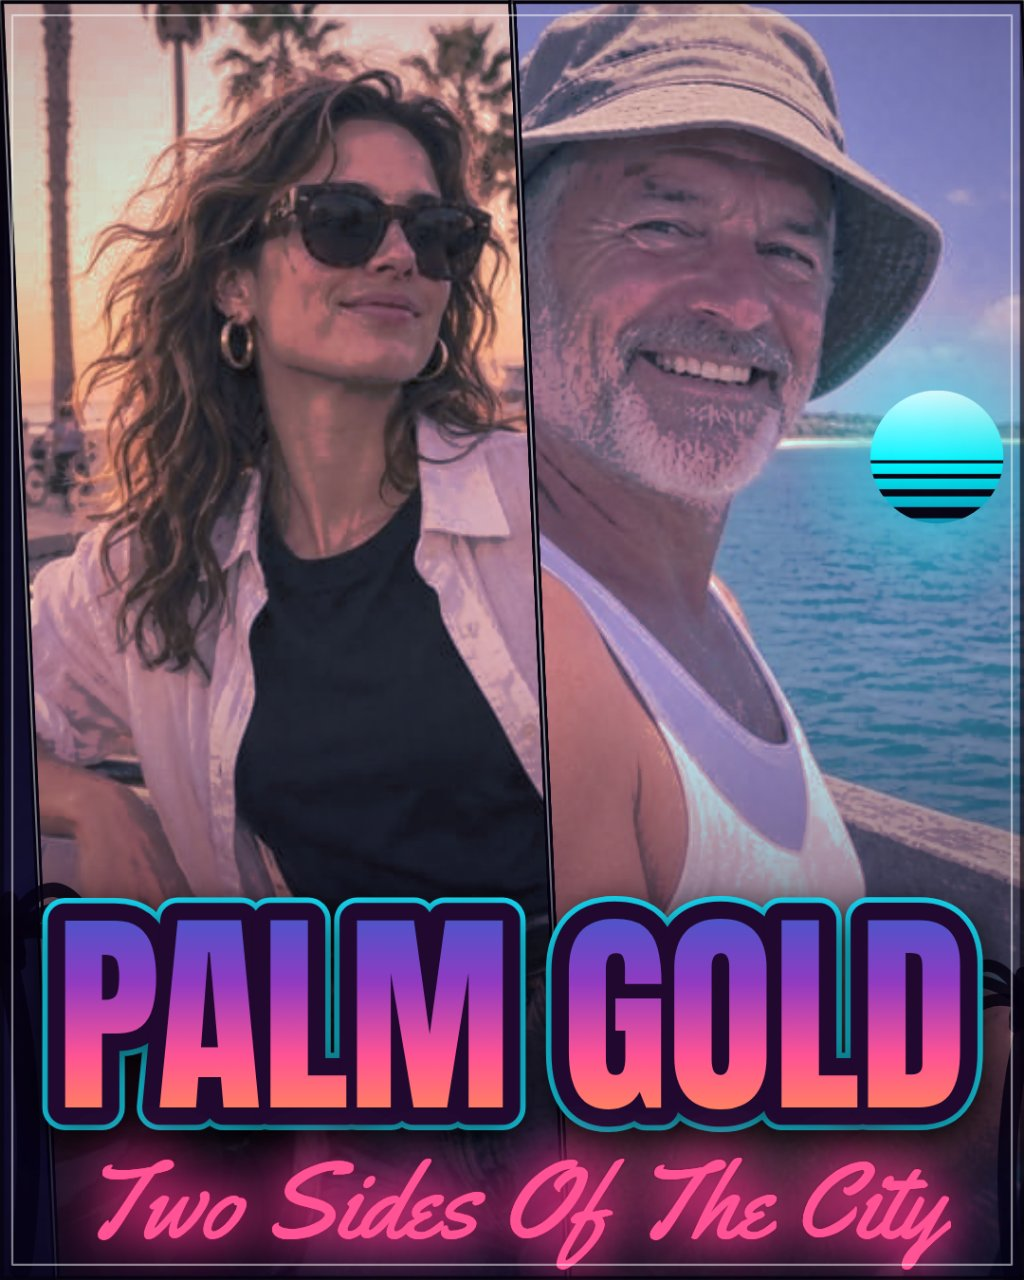
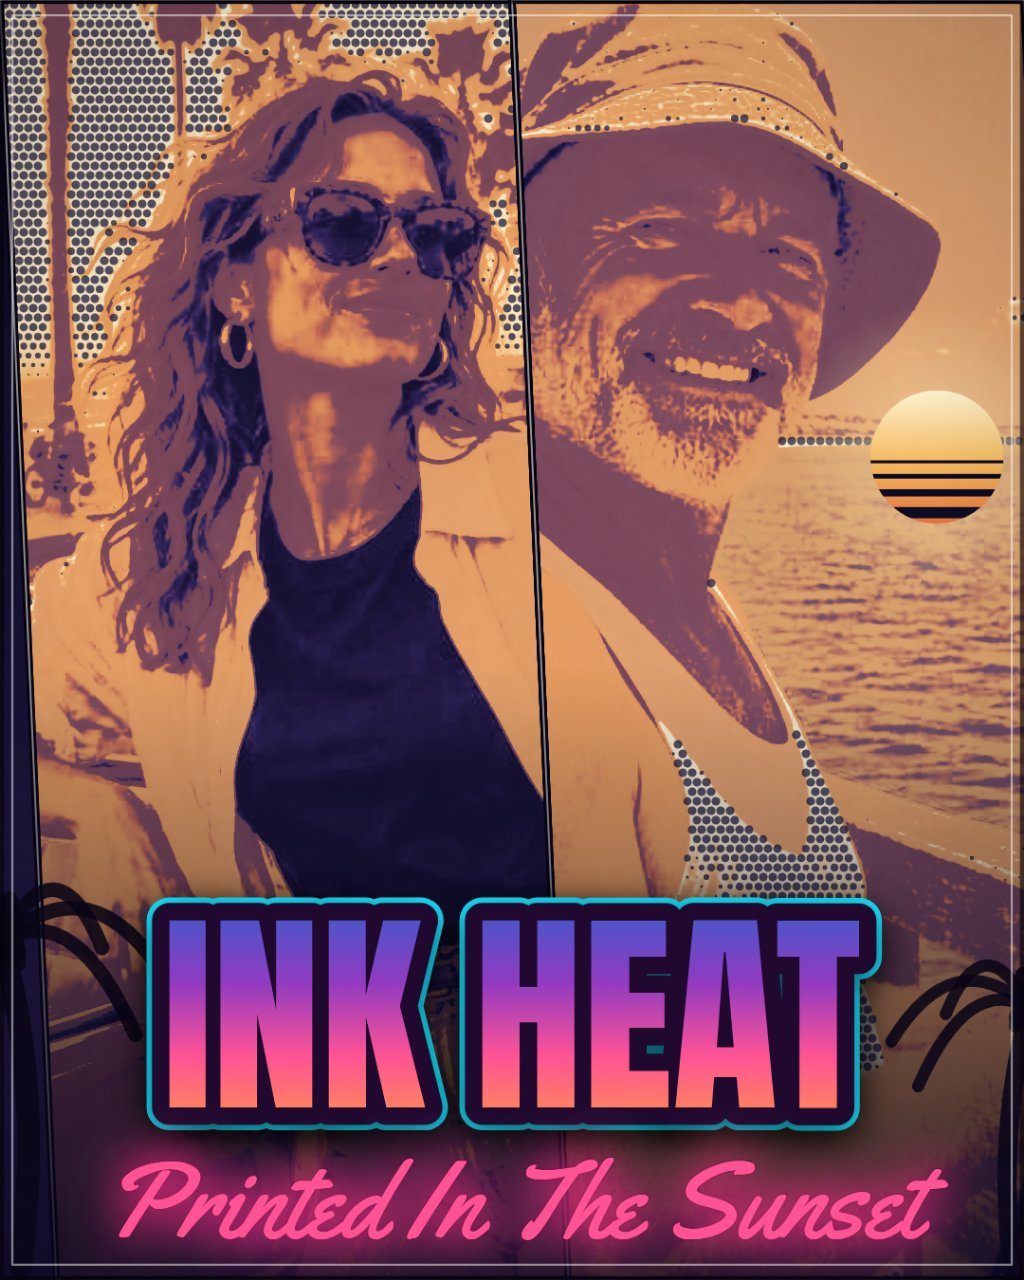
Close the gaps round: Poster Ink grade (duotone ink LUT, 4-step posterize, highlight-masked halftone) + Mosaic 9-panel layout
- GRADES.ink: indigo-ink -> terracotta -> amber -> paper-cream ramp, mix 0.88,
  steps 4; halftone dots (deep ink, brick-offset grid, pitch 6-15px) masked by
  smoothstep(0.67, 0.96) on posterized luminance - texture lives in sky and
  highlights, faces stay clean. Per-grade posterize steps in gradeLUT.
  Sun in ink follows the LUT stops (cream -> amber -> rust, indigo slits).
- LAYOUTS.mosaic: 3x3 nine-panel grid, all aspects; rotating panelPhoto
  assignment with mosaic-specific gentler re-crops so faces stay in cell;
  no sun in Mosaic (no sea cell can be guaranteed face-free).
- Editor: Mosaic + Poster Ink buttons, ink swatch style.
- Screenshots: 2-editor now shows Mosaic + Poster Ink together (JPEG q78 via
  shots.json), 4-cover becomes the Duo Poster Ink showcase (INK HEAT).
- README + main.ts header updated to five layouts and five grades.

diff --git a/app/src/poster.js b/app/src/poster.js
@@ -1,10 +1,12 @@
 // VICE COVER poster renderer: draws a multi-panel GTA-style poster onto any
 // 2D canvas. Pure drawing code — no network, no DOM input, no Rockstar assets.
 // A poster is: photo panels graded through a per-grade gradient-map LUT with
-// light tonal posterizing (cel feel), firm gutters, a slit sun sitting on the
-// sea panel's horizon, code-drawn palms, a print finishing pass (grain +
-// vignette), then layered lettering: a sunset-gradient title with a double
-// outline and a neon script tagline.
+// tonal posterizing (cel feel; the Poster Ink grade goes further — a firm
+// screen-print posterize plus a luminance-masked halftone that lives in the
+// highlights only), firm gutters, a slit sun sitting on the sea panel's
+// horizon, code-drawn palms, a print finishing pass (grain + vignette), then
+// layered lettering: a sunset-gradient title with a double outline and a
+// neon script tagline.
 
 export const SIZES = {
   '1080x1080': [1080, 1080],
@@ -17,6 +19,7 @@ export const LAYOUTS = {
   duo: { panels: 2, slant: 0.055, label: 'Split Duo' },
   solo: { panels: 1, slant: 0, label: 'Solo Hero' },
   grid: { panels: 5, slant: 0, label: 'Cover Grid' },
+  mosaic: { panels: 9, slant: 0, label: 'Mosaic' },
 };
 
 // Each grade carries a gradient-map ramp (shadow -> midtone -> highlight)
@@ -76,12 +79,33 @@ export const GRADES = {
     tagText: '#0a0a0a',
     scrim: '0, 0, 0',
   },
+  ink: {
+    // Poster Ink: a screen-print finish. A bold duotone ink ramp (deep
+    // indigo ink shadows -> warm terracotta midtones -> paper-cream
+    // highlights), a firmer posterize than the other grades, and a halftone
+    // dot screen masked to the highlights (see applyHalftone).
+    label: 'Poster Ink',
+    sky: ['#171233', '#3d2a6e'],
+    skyTop: '#0d0a24',
+    sun: '#f7e3ac',
+    sunCore: '#fdf3d0',
+    sunStops: ['#fdf3d0', '#f5b95e', '#e2703a'],
+    ramp: [[0, [20, 16, 54]], [0.22, [52, 38, 104]], [0.45, [196, 102, 84]], [0.72, [242, 170, 96]], [1, [250, 236, 204]]],
+    mix: 0.88,
+    steps: 4,
+    halftone: true,
+    accent: '#f5b95e',
+    tagText: '#0d0a24',
+    scrim: '10, 7, 30',
+  },
 };
 
 /** Panel polygons for a layout. Trio/Duo are slanted quads leaning right as
- *  they fall; Grid is one hero panel plus four satellites around it. */
+ *  they fall; Grid is one hero panel plus four satellites around it; Mosaic
+ *  is a 3x3 grid of nine equal cells (the GTA V cover pattern). */
 export function panelShapes(w, h, layout) {
   if (layout === 'grid') return { shapes: gridShapes(w, h), slant: 0, count: 5 };
+  if (layout === 'mosaic') return { shapes: mosaicShapes(w, h), slant: 0, count: 9 };
   const spec = LAYOUTS[layout] ?? LAYOUTS.trio;
   const n = spec.panels;
   const slant = w * spec.slant;
@@ -130,6 +154,25 @@ function gridShapes(w, h) {
     rect(2 * cw, mh, cw, h - mh), rect(3 * cw, mh, cw, h - mh)];
 }
 
+/** Mosaic: nine equal cells in a 3x3 grid, whatever the canvas aspect —
+ *  each cell simply takes the canvas's own proportions divided by three. */
+function mosaicShapes(w, h) {
+  const cw = w / 3;
+  const ch = h / 3;
+  const shapes = [];
+  for (let row = 0; row < 3; row++) {
+    for (let col = 0; col < 3; col++) {
+      const x = col * cw;
+      const y = row * ch;
+      shapes.push({
+        x, y, w: cw, h: ch,
+        poly: [[x, y], [x + cw, y], [x + cw, y + ch], [x, y + ch]],
+      });
+    }
+  }
+  return shapes;
+}
+
 function tracePoly(ctx, poly) {
   ctx.beginPath();
   ctx.moveTo(poly[0][0], poly[0][1]);
@@ -144,8 +187,27 @@ export function panelPhoto(state, i) {
   const list = state.panels ?? [];
   if (!list.length) return null;
   const p = list[i % list.length];
-  if (!p || i < list.length) return p;
+  if (!p) return null;
+  if (state.layout === 'mosaic' && i === 3 && i < list.length) {
+    // Panel 4's shared re-crop (zoom 1.35, oy 0.4) is framed for the Grid's
+    // narrower satellites; in a wide Mosaic cell the width-driven cover-fit
+    // pushes the subject's eyes out of the top. Reframe it for Mosaic only.
+    return { img: p.img, zoom: 1.15, ox: p.ox ?? 0.3, oy: 0.72 };
+  }
+  if (i < list.length) return p;
   const k = Math.floor(i / list.length);
+  if (state.layout === 'mosaic') {
+    // Mosaic's rotated cells are short in landscape, where the standard
+    // re-crop (oy 0.38 at a hard zoom) pushes faces out of the top of the
+    // cell. Keep the variation, but zoom gentler and favour the top of the
+    // photo more, so heads stay inside the cell in every aspect.
+    return {
+      img: p.img,
+      zoom: Math.min(3, (p.zoom ?? 1) * (1.1 + 0.07 * k)),
+      ox: Math.max(-1, Math.min(1, -(p.ox ?? 0) + (k % 2 ? 0.3 : -0.3))),
+      oy: 0.62,
+    };
+  }
   return {
     img: p.img,
     zoom: Math.min(3, (p.zoom ?? 1) * (1.18 + 0.12 * k)),
@@ -182,10 +244,10 @@ function smoothstep(a, b, x) {
   return t * t * (3 - 2 * t);
 }
 
-function posterT(t) {
-  const s = t * (TONAL_STEPS - 1);
-  const i = Math.min(TONAL_STEPS - 2, Math.floor(s));
-  return (i + smoothstep(0.32, 0.68, s - i)) / (TONAL_STEPS - 1);
+function posterT(t, steps = TONAL_STEPS) {
+  const s = t * (steps - 1);
+  const i = Math.min(steps - 2, Math.floor(s));
+  return (i + smoothstep(0.32, 0.68, s - i)) / (steps - 1);
 }
 
 function rampAt(stops, t) {
@@ -200,19 +262,52 @@ function rampAt(stops, t) {
   return stops[stops.length - 1][1];
 }
 
-/** 256-entry luminance -> RGB table for a grade, posterized to six steps. */
+/** 256-entry luminance -> RGB table for a grade, posterized to the grade's
+ *  tonal steps (six for the soft cel grades, four for Poster Ink's firmer
+ *  screen-print plateaus). */
 export function gradeLUT(gradeKey) {
   if (lutCache.has(gradeKey)) return lutCache.get(gradeKey);
   const grade = GRADES[gradeKey] ?? GRADES.sunset;
   const lut = new Uint8Array(256 * 3);
   for (let v = 0; v < 256; v++) {
-    const [r, g, b] = rampAt(grade.ramp, posterT(v / 255));
+    const [r, g, b] = rampAt(grade.ramp, posterT(v / 255, grade.steps ?? TONAL_STEPS));
     lut[v * 3] = r;
     lut[v * 3 + 1] = g;
     lut[v * 3 + 2] = b;
   }
   lutCache.set(gradeKey, lut);
   return lut;
+}
+
+/** Poster Ink's halftone screen: dots of the grade's deep ink colour on a
+ *  coarse brick-offset grid, sized by the graded pixel luminance — but the
+ *  mask only opens in the highlights (sky, paper-bright areas) and closes
+ *  completely through the midtones and shadows, so faces stay clean and the
+ *  texture reads as print in the background only. Luminance is sampled from
+ *  the already-posterized panel, so the dots follow the print plateaus. */
+function applyHalftone(ctx, cw, ch, data, grade) {
+  const pitch = Math.max(6, Math.min(15, Math.round(Math.min(cw, ch) / 60)));
+  const [ir, ig, ib] = grade.ramp[0][1];
+  ctx.save();
+  ctx.fillStyle = `rgba(${ir}, ${ig}, ${ib}, 0.72)`;
+  ctx.beginPath();
+  let row = 0;
+  for (let y = pitch / 2; y < ch; y += pitch, row++) {
+    const off = row % 2 ? pitch / 2 : 0;
+    for (let x = pitch / 2 + off; x < cw; x += pitch) {
+      const px = Math.min(cw - 1, Math.round(x));
+      const py = Math.min(ch - 1, Math.round(y));
+      const o = (py * cw + px) * 4;
+      const lum = (data[o] * 77 + data[o + 1] * 150 + data[o + 2] * 29) >> 8;
+      const s = smoothstep(0.67, 0.96, lum / 255);
+      if (s <= 0.02) continue;
+      const r = s * pitch * 0.48;
+      ctx.moveTo(x + r, y);
+      ctx.arc(x, y, r, 0, Math.PI * 2);
+    }
+  }
+  ctx.fill();
+  ctx.restore();
 }
 
 let imgSeq = 0;
@@ -239,6 +334,7 @@ export function gradedPanelCanvas(shape, photo, gradeKey) {
 
   const grade = GRADES[gradeKey] ?? GRADES.sunset;
   const mix = grade.mix;
+  let graded = null;
   if (mix > 0) {
     const lut = gradeLUT(gradeKey);
     const data = ctx.getImageData(0, 0, cw, ch);
@@ -254,7 +350,9 @@ export function gradedPanelCanvas(shape, photo, gradeKey) {
       px[i + 2] = b + (lut[o + 2] - b) * mix;
     }
     ctx.putImageData(data, 0, 0);
+    graded = px;
   }
+  if (grade.halftone && graded) applyHalftone(ctx, cw, ch, graded, grade);
 
   if (panelCache.size > 48) panelCache.delete(panelCache.keys().next().value);
   panelCache.set(key, canvas);
@@ -592,15 +690,19 @@ export function drawPoster(canvas, state) {
   // the lower corners. The sun and its glow are clipped to the sea panel's
   // own polygon, so neither can ever wash over a gutter into the next cell
   // (in the Grid's narrow satellites the disc is also sized and anchored
-  // to keep a clear margin from the cell edges).
-  const spot = sunAnchor(state, shapes, w, h);
-  const sunPanel = state.layout === 'solo' ? shapes[0] : (shapes[1] ?? shapes[0]);
-  ctx.save();
-  if (sunPanel) { tracePoly(ctx, sunPanel.poly); ctx.clip(); }
-  drawSunGlow(ctx, spot.cx, spot.cy, spot.r, grade);
-  drawSun(ctx, spot.cx, spot.cy, spot.r, grade);
-  ctx.restore();
-  strokeGutters();
+  // to keep a clear margin from the cell edges). Mosaic gets no sun: with
+  // nine small cells there is no sea cell that can be guaranteed face-free,
+  // and the brief for the layout is the grid itself, not the sun.
+  if (state.layout !== 'mosaic') {
+    const spot = sunAnchor(state, shapes, w, h);
+    const sunPanel = state.layout === 'solo' ? shapes[0] : (shapes[1] ?? shapes[0]);
+    ctx.save();
+    if (sunPanel) { tracePoly(ctx, sunPanel.poly); ctx.clip(); }
+    drawSunGlow(ctx, spot.cx, spot.cy, spot.r, grade);
+    drawSun(ctx, spot.cx, spot.cy, spot.r, grade);
+    ctx.restore();
+    strokeGutters();
+  }
   const palmColor = 'rgba(10, 4, 18, 0.88)';
   drawPalm(ctx, w * 0.02, h * 0.99, h * 0.3, false, palmColor);
   drawPalm(ctx, w * 0.99, h * 1.0, h * 0.25, true, palmColor);

diff --git a/main.ts b/main.ts
@@ -8,9 +8,10 @@
 // make.fun library (vendor/makefun-app.ts, unchanged).
 //
 // The app itself: pick a photo per panel, crop it by dragging, pick a layout
-// (Vice Trio / Split Duo / Solo Hero / Cover Grid), a colour grade (Sunset,
-// Neon Nights, Palm Gold, Noir — all gradient-mapped) and a post size, type
-// a title and a tagline, and export a PNG (one size, or all three at once).
+// (Vice Trio / Split Duo / Solo Hero / Cover Grid / Mosaic), a colour grade
+// (Sunset, Neon Nights, Palm Gold, Noir, Poster Ink — all gradient-mapped,
+// Poster Ink with a highlight-masked halftone) and a post size, type a title
+// and a tagline, and export a PNG (one size, or all three at once).
 // Its three sample photos (app/samples/) were made for make.fun with an
 // image model and are free to use.
 //

diff --git a/app/index.html b/app/index.html
@@ -22,6 +22,7 @@
         <button type="button" data-layout="duo">Split Duo</button>
         <button type="button" data-layout="solo">Solo Hero</button>
         <button type="button" data-layout="grid">Cover Grid</button>
+        <button type="button" data-layout="mosaic">Mosaic</button>
       </div>
     </fieldset>
 
@@ -32,6 +33,7 @@
         <button type="button" data-grade="neon" class="sw-neon">Neon Nights</button>
         <button type="button" data-grade="gold" class="sw-gold">Palm Gold</button>
         <button type="button" data-grade="noir" class="sw-noir">Noir</button>
+        <button type="button" data-grade="ink" class="sw-ink">Poster Ink</button>
       </div>
     </fieldset>
 

diff --git a/app/style.css b/app/style.css
@@ -63,6 +63,7 @@ button.sw-sunset.on { background: linear-gradient(90deg, #ff7b00, #ff2e63); }
 button.sw-neon.on { background: linear-gradient(90deg, #00b3c8, #ff00a8); }
 button.sw-gold.on { background: linear-gradient(90deg, #e8a100, #7a5200); color: #fff; }
 button.sw-noir.on { background: #e8e8e8; color: #0a0a0a; border-color: #e8e8e8; }
+button.sw-ink.on { background: linear-gradient(90deg, #2a1e5e, #e2703a); color: #fdf3d0; border-color: #e2703a; }
 
 .file { cursor: pointer; }
 input[type=file] { font: inherit; font-weight: 400; }

diff --git a/README.md b/README.md
@@ -4,7 +4,7 @@
 [![rank](https://make.fun/badge/gta6-cover-art-01/cleoworks/gta6-cover-art/rank.svg)](https://make.fun/bounty/gta6-cover-art-01/leaderboard?utm_source=github&utm_medium=readme&utm_campaign=gta6-cover-art-01)
 [![reward](https://make.fun/badge/gta6-cover-art-01/cleoworks/gta6-cover-art/reward.svg)](https://make.fun/bounty/gta6-cover-art-01?utm_source=github&utm_medium=readme&utm_campaign=gta6-cover-art-01)
 
-VICE COVER turns your photos and a caption into GTA 6-style poster cover art: multi-panel layouts (Vice Trio, Split Duo, Solo Hero, and a five-panel Cover Grid with one hero panel and four satellites), a sunset-gradient title with a double outline, a neon script tagline, and four colour grades (Sunset, Neon, Palm Gold, Noir) applied as true gradient maps with a light cel-shade posterize. Drop in any photos, drag to crop each panel, pick a post size (square, portrait or landscape), and export a share-ready PNG — one size, or all three sizes at once. Everything runs locally in the browser — your photos never leave your machine, and the app works fully offline with no network calls and no Rockstar artwork, logos or fonts.
+VICE COVER turns your photos and a caption into GTA 6-style poster cover art: multi-panel layouts (Vice Trio, Split Duo, Solo Hero, a five-panel Cover Grid with one hero panel and four satellites, and Mosaic — a nine-panel 3×3 grid in the classic cover pattern), a sunset-gradient title with a double outline, a neon script tagline, and five colour grades (Sunset, Neon, Palm Gold, Noir, and Poster Ink — a bold screen-print duotone with a firmer posterize and a halftone dot screen that lives in the highlights only, never on faces), all applied as true gradient maps with a light cel-shade posterize. Drop in any photos, drag to crop each panel, pick a post size (square, portrait or landscape), and export a share-ready PNG — one size, or all three sizes at once. Everything runs locally in the browser — your photos never leave your machine, and the app works fully offline with no network calls and no Rockstar artwork, logos or fonts.
 
 Open `app/index.html` in a browser to use it.
 
